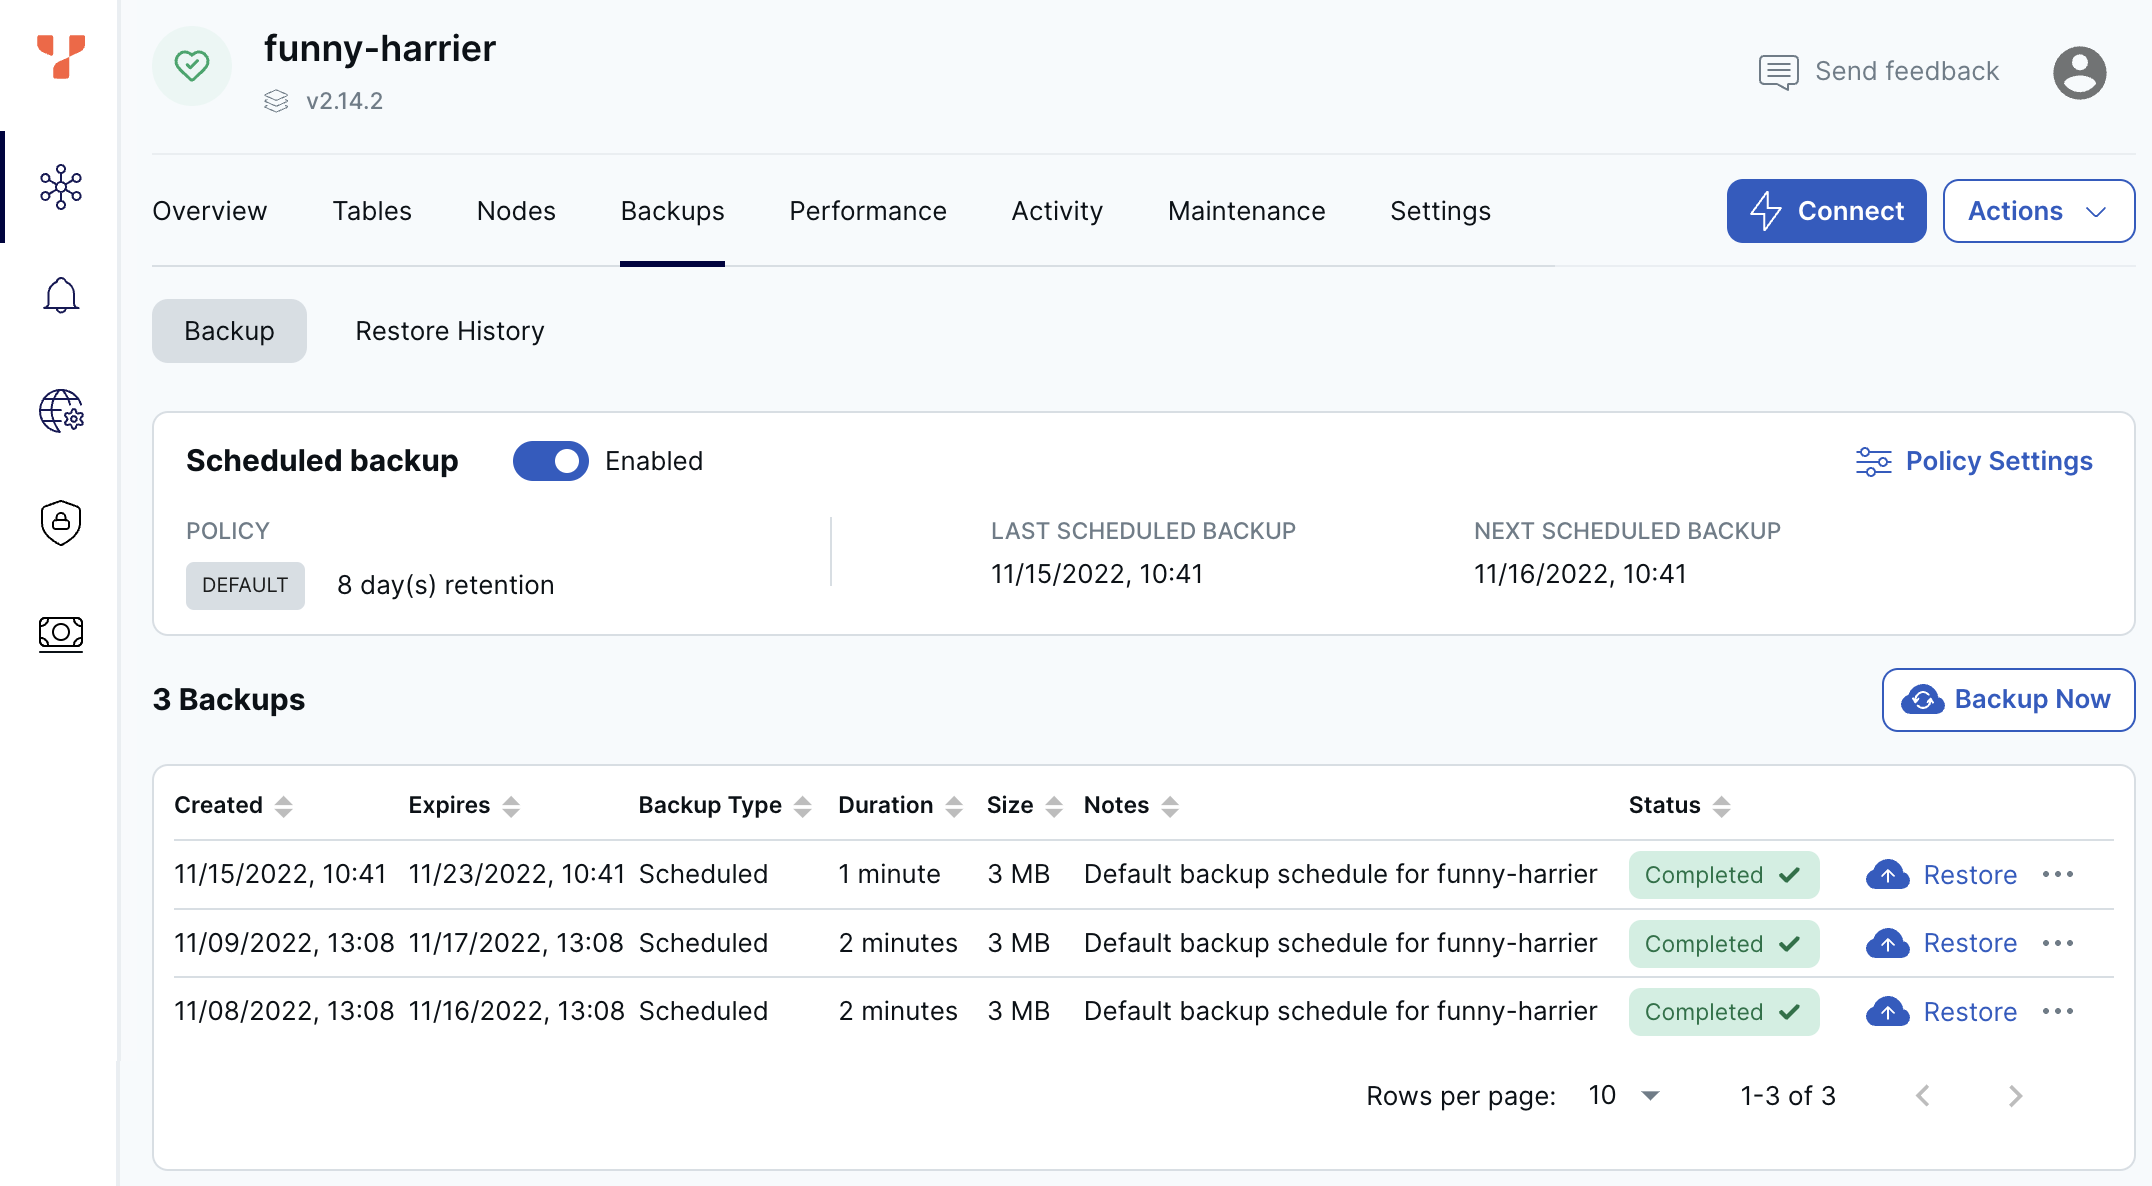
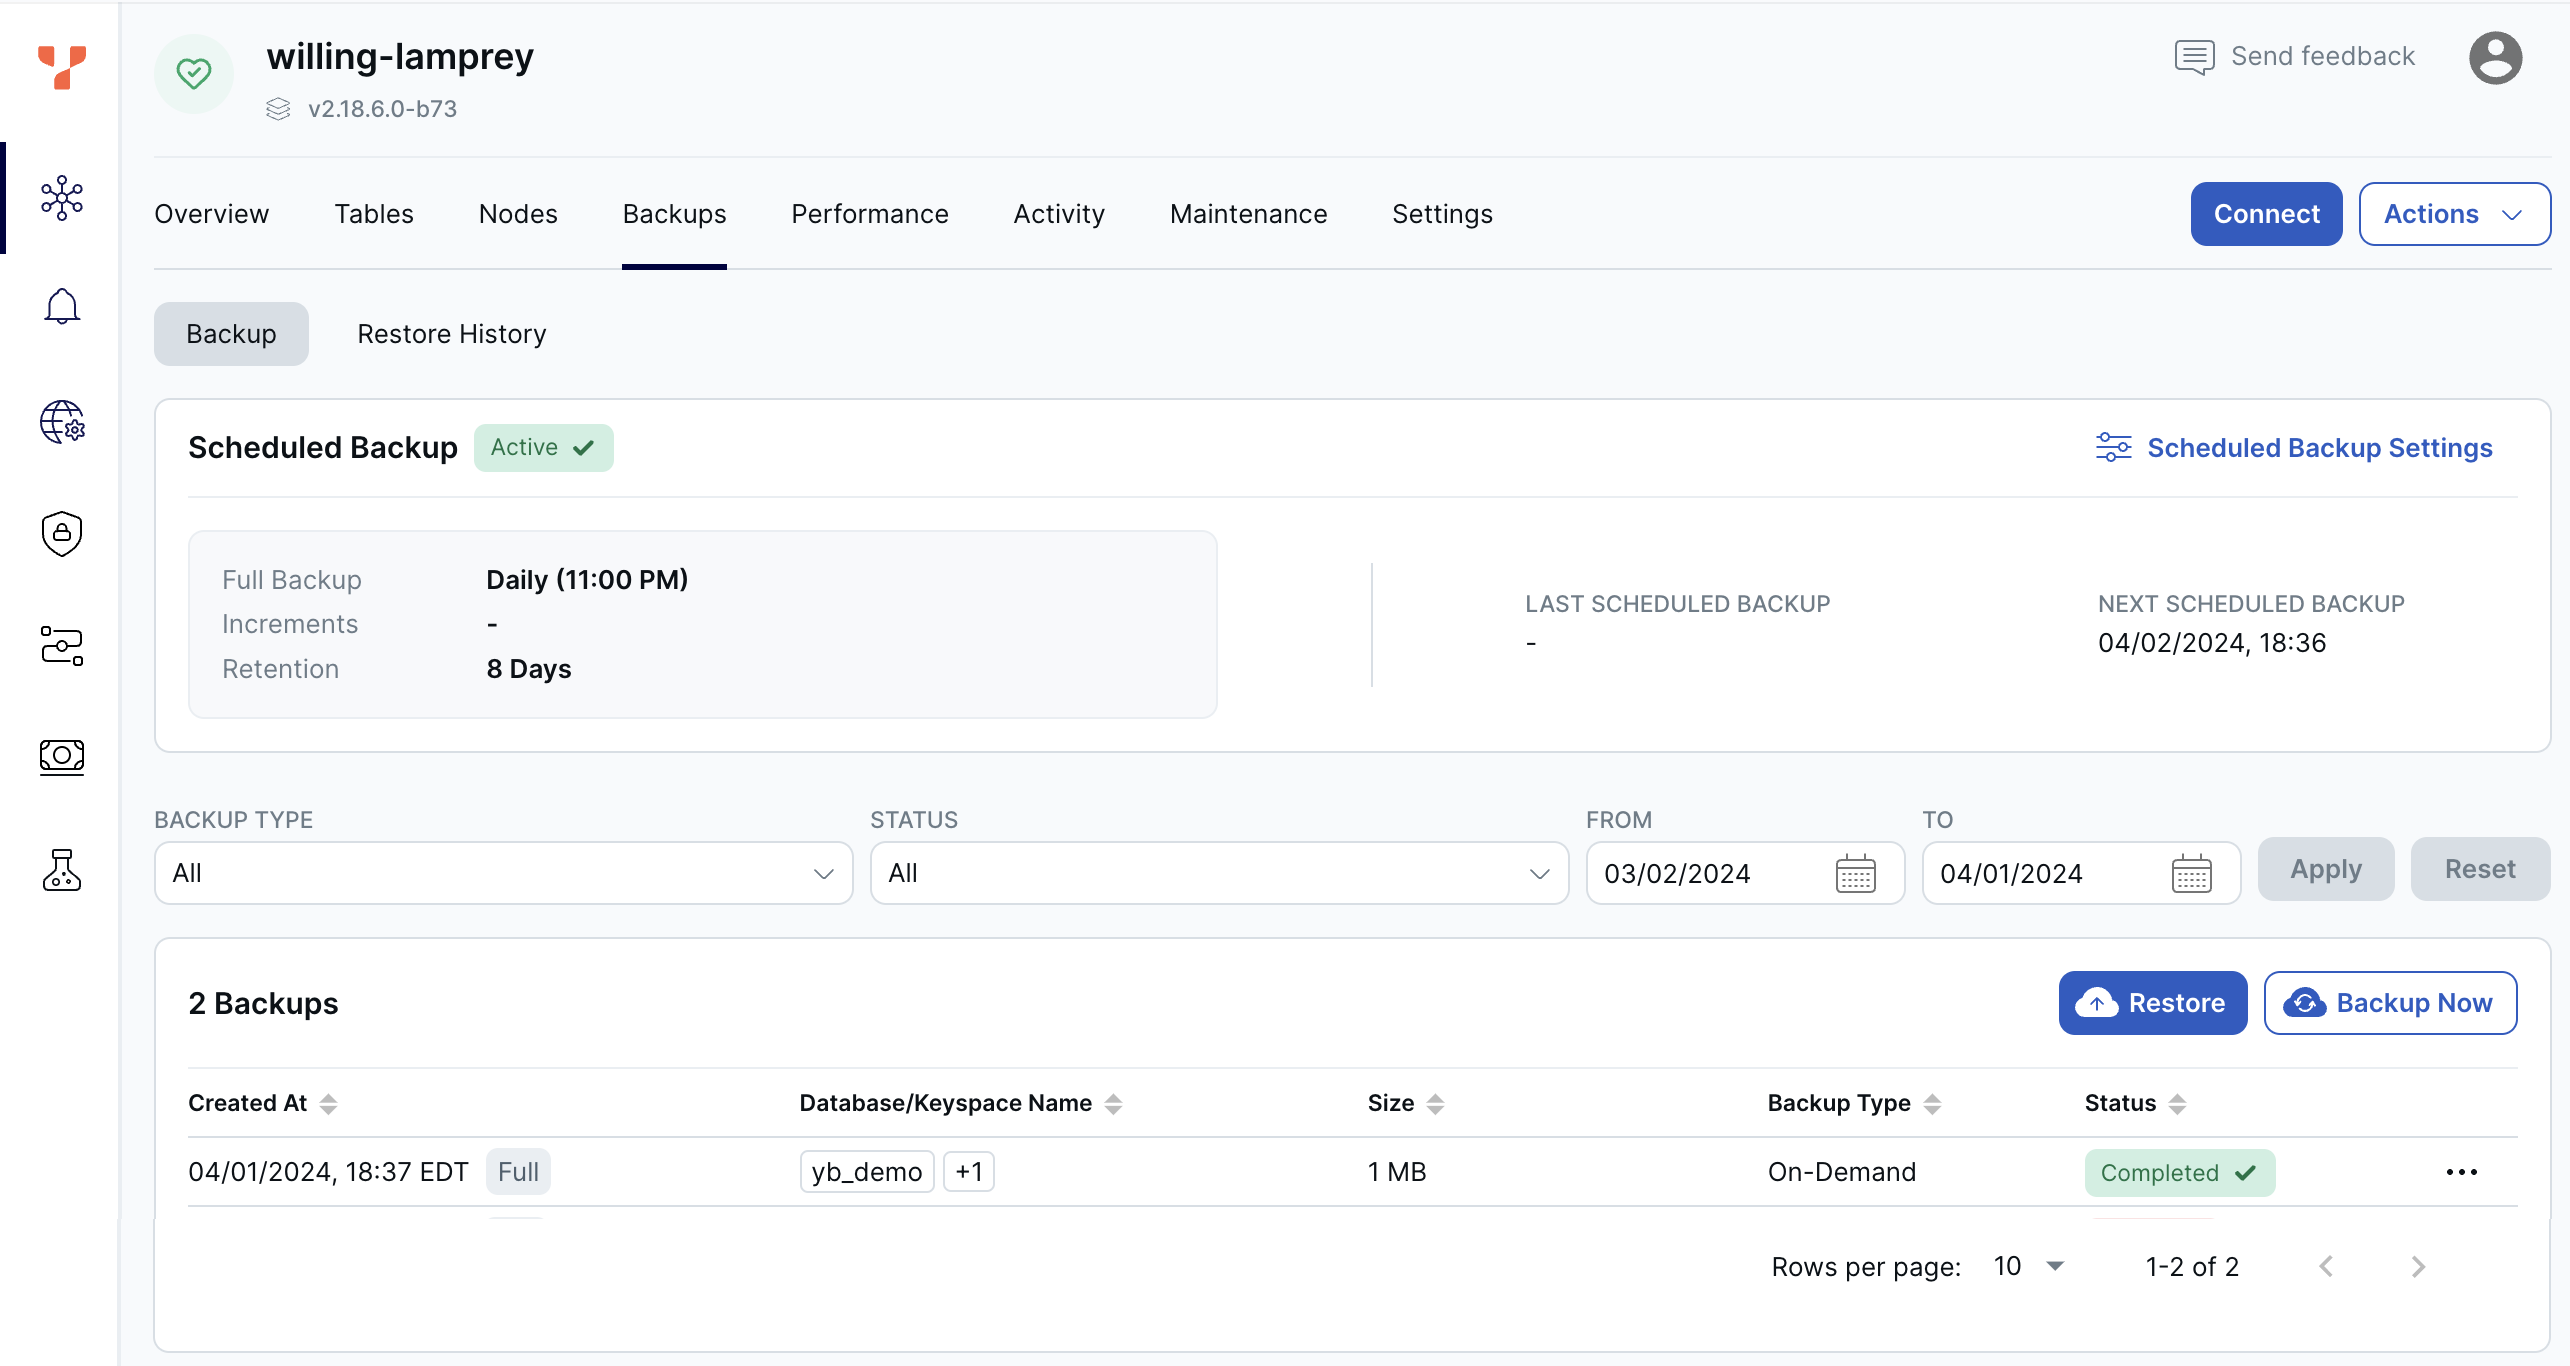
[doc][ybm] Incremental backups (#21429)
* incremental backups

* review comment

* screenshot

* review comment

* minor edits

* minor fix

diff --git a/docs/content/preview/yugabyte-cloud/cloud-clusters/backup-clusters.md b/docs/content/preview/yugabyte-cloud/cloud-clusters/backup-clusters.md
@@ -11,15 +11,21 @@ menu:
 type: docs
 ---
 
-YugabyteDB Managed performs full cluster (all namespaces) level backups, and the backups are stored in the same region as your cluster. 100GB/month of basic backup storage is provided for every vCPU; more than that and overage charges apply. Refer to [Cluster costs](../../cloud-admin/cloud-billing-costs/).
+YugabyteDB Managed can perform full and incremental cluster (all namespaces) level backups, and the backups are stored in the same region as your cluster. 100GB/month of basic backup storage is provided for every vCPU; more than that and overage charges apply. Refer to [Cluster costs](../../cloud-admin/cloud-billing-costs/).
 
 {{< youtube id="3qzAdrVFgxc" title="Back up and restore clusters in YugabyteDB Managed" >}}
 
-By default, clusters are backed up automatically every 24 hours, and these automatic backups are retained for 8 days. The first automatic backup is triggered after 24 hours of creating a table, and is scheduled every 24 hours thereafter.
+By default, clusters are backed up automatically every 24 hours, and these automatic full backups are retained for 8 days. The first automatic backup is triggered after 24 hours of creating a table, and is scheduled every 24 hours thereafter.
 
-Back up and restore clusters, configure the automatic backup policy, and review previous backups and restores using the cluster **Backups** tab.
+Full backups are a complete copy of the cluster. You can additionally schedule incremental backups between full backups. Incremental backups only include the data that has changed since the last backup, be it a full or incremental backup. Incremental backups provide the following advantages:
 
-To change the backup schedule, [create your own schedule](#schedule-backups). To enable or disable scheduled backups, click the **Scheduled backup** option.
+- Faster - Incremental backups are much quicker as they deal with a smaller amount of data.
+- Reduced storage - Because only the delta from previous backup is captured, incremental backups consume less storage space compared to full backups.
+- Higher frequency - Incremental backups can be scheduled at smaller intervals (down to hourly), providing a lower recovery point objective (RPO).
+
+Back up and restore clusters, configure the scheduled backup policy, and review previous backups and restores using the cluster **Backups** tab.
+
+To change the backup schedule, [create your own schedule](#manage-scheduled-backups).
 
 You can also perform backups [on demand](#on-demand-backups) and manually [restore backups](#restore-a-backup).
 
@@ -42,7 +48,7 @@ Backups are not supported for Sandbox clusters.
 ## Recommendations
 
 - Don't perform cluster operations at the same time as your scheduled backup.
-- Configure your [maintenance window](../cloud-maintenance/) and [backup schedule](#schedule-backups) so that they do not conflict.
+- Configure your [maintenance window](../cloud-maintenance/) and [backup schedule](#manage-scheduled-backups) so that they do not conflict.
 - Performing a backup or restore incurs a load on the cluster. Perform backup operations when the cluster isn't experiencing heavy traffic. Backing up during times of heavy traffic can temporarily degrade application performance and increase the length of time of the backup.
 - Avoid running a backup during or before a scheduled maintenance.
 
@@ -59,18 +65,21 @@ To back up a cluster:
 
 The backup, along with its status, is added to the Backups list.
 
-## Schedule backups
+## Manage scheduled backups
 
-Use scheduled backups to override the default 24 hour/8-day retention policy with your own schedule.
+Use a backup policy to schedule backups and override the default 24 hour/8-day retention policy.
 
 Any changes to the retention policy are applied to new backups only.
 
-To schedule backups for a cluster:
+To manage the cluster backup policy, do the following:
 
-1. On the **Backups** tab, click **Policy Settings** to display the **Backup Policy Settings** dialog.
+1. On the **Backups** tab, click **Scheduled Backup Settings** and choose **Edit Backup Policy** to display the **Backup Policy** dialog.
+1. Specify how often to take full backups of the database.
+1. To take incremental backups, select the **Enable incremental backup** option and specify how often to take incremental backups.
 1. Set the retention period for the backup. The maximum retention is 31 days.
-1. Choose **Simple** to set the frequency for the backups. Choose **Custom** to select the days of the week to run backups, along with the start time.
-1. Click **Update Policy**.
+1. Click **Save**.
+
+To disable the scheduled backup, click **Scheduled Backup Settings** and choose **Disable Scheduled Backup**. Click **Enable Scheduled Backup** to re-enable the policy.
 
 ## Restore a backup
 
@@ -79,10 +88,12 @@ Before performing a restore, ensure the following:
 - the target cluster is sized appropriately; refer to [Scale and configure clusters](../configure-clusters/)
 - if the target cluster has the same namespaces as the source cluster, those namespaces don't have any tables
 
-To review previous restores, click **Restore**.
+To review previous restores, on the **Backups** tab, select **Restore History**.
 
 To restore a backup of a cluster:
 
-1. On the **Backups** tab, select a backup in the list and click the **Restore** icon to display the **Restore Backup** dialog.
+1. On the **Backups** tab, select a backup in the list to display the **Backup Details** sheet.
+1. Click **Restore** to display the **Restore Backup** dialog.
+1. Choose the databases or keyspaces to restore and click **Next**.
 1. Select the target cluster.
-1. Click **Restore**.
+1. Click **Restore Now**.

diff --git a/docs/content/preview/yugabyte-cloud/managed-automation/managed-cli/managed-cli-reference/managed-cli-backup-policy.md b/docs/content/preview/yugabyte-cloud/managed-automation/managed-cli/managed-cli-reference/managed-cli-backup-policy.md
@@ -71,6 +71,7 @@ Update the backup policy of a specified cluster.
 | :--- | :--- |
 | --cluster-name | Required. Name of the cluster to update the backup policy for. |
 | --full-backup-frequency-in-days | Frequency of full backup in days. Default is 1. |
-| --full-backup-schedule-time | Time of day to run backups. Specify local time in 24 hr HH:MM format. For example, 15:04. |
 | --full-backup-schedule-days-of-week | Days of the week to run backups. Specify a comma-separated list of the first two letters of the days. For example, MO,WE,SA. |
+| --full-backup-schedule-time | Time of day to run backups. Specify local time in 24 hr HH:MM format. For example, 15:04. |
+| --incremental-backup-frequency-in-minutes | Frequency of incremental backups in minutes. Default is 60. |
 | --retention-period-in-days | Required. Retention period for the backup in days. Default is 1. |
